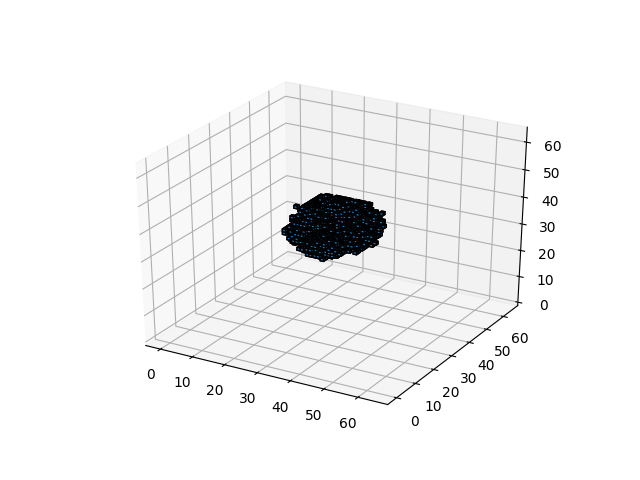
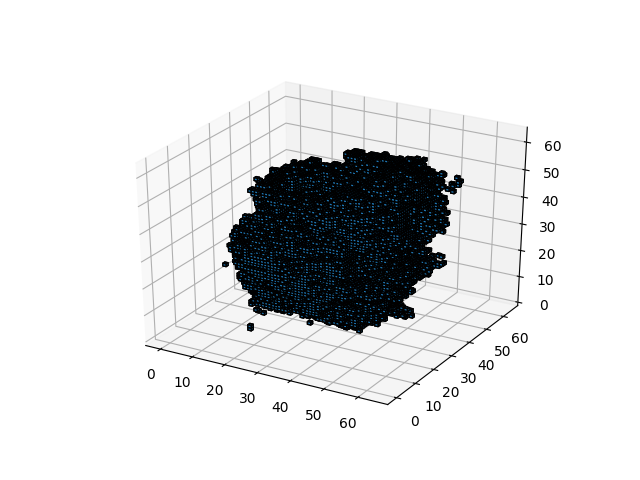
1

Changed region(s): [[0.3438, 0.3125, 0.7188, 0.6875]]

diff --git a/src/3dgan_mit_biasfree.py b/src/3dgan_mit_biasfree.py
@@ -260,7 +260,7 @@ def testGAN(trained_model_path=None, n_batches=40):
         # output generated chairs
         for i in range(n_batches):
             print(i)
-            next_sigma = 0.33 #float(raw_input())
+            next_sigma = 1.0#float(raw_input())
             z_sample = np.random.normal(0, next_sigma, size=[batch_size, z_size]).astype(np.float32)
             g_objects = sess.run(net_g_test,feed_dict={z_vector:z_sample})
             id_ch = np.random.randint(0, batch_size, 4)
